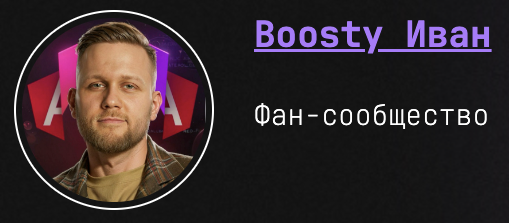
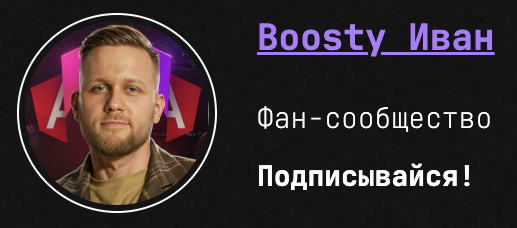
animation-pashalka-sidebar

diff --git a/src/app/common-ui/sidebar/sidebar.component.scss b/src/app/common-ui/sidebar/sidebar.component.scss
@@ -20,7 +20,7 @@
 
 .logo{
   cursor: pointer;
-  max-height: 74px;
+  max-height: 100px;
 }
 
 .main-menu-list {
